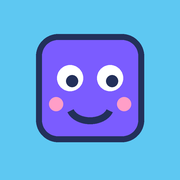
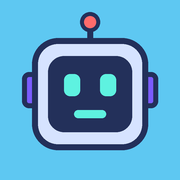
Add Bolt the robot sidekick, Player 1 start screen and talking intro
Claude-Session: https://claude.ai/code/session_01Yanq1Fvdy6wm7jfsNLro3V

diff --git a/index.html b/index.html
@@ -144,6 +144,31 @@ svg circle.lit { fill: #ffc93c; }
 .splash-sub { position: relative; margin: 0; font-weight: 900; font-size: 1.2rem; }
 .big-start { font-size: 2.2rem; padding: 18px; animation: pulse 1.4s ease-in-out infinite; }
 @media (prefers-reduced-motion: reduce) { .big-start { animation: none; } }
+.robot .eyes, .robot .mouth { transform-box: fill-box; transform-origin: center; }
+.robot .eyes { animation: blink 4.5s infinite; }
+@keyframes blink { 0%, 94%, 100% { transform: scaleY(1); } 96% { transform: scaleY(.1); } }
+.robot.talking .mouth { animation: talk .22s ease-in-out infinite alternate; }
+@keyframes talk { to { transform: scaleY(2.6); } }
+.robot .bulb { animation: bulb 1.6s ease-in-out infinite; }
+@keyframes bulb { 50% { fill: #ffc93c; } }
+.robot .wave { transform-origin: 113px 100px; }
+.intro .buddy { width: 130px; }
+.caret { animation: caret 1s steps(1) infinite; color: var(--btn); }
+@keyframes caret { 50% { opacity: 0; } }
+.screen { position: relative; overflow: hidden; background: #1b2347; border: 6px solid #23305a; border-radius: 24px; padding: 26px 16px 22px; color: #e8f4ff; display: grid; justify-items: center; gap: 6px; box-shadow: inset 0 0 40px rgba(94,242,224,.18); }
+.scan { position: absolute; inset: 0; background: repeating-linear-gradient(transparent 0 3px, rgba(255,255,255,.04) 3px 4px); pointer-events: none; }
+.p1 { font-weight: 900; letter-spacing: .3em; font-size: .9rem; color: #5ef2e0; }
+.pname { font-family: var(--display); font-weight: 400; font-size: clamp(3rem, 14vw, 4.6rem); margin: 0; letter-spacing: .06em; line-height: 1; }
+.pname span { display: inline-block; animation: hop .6s ease-out both; }
+.pname span:nth-child(6n+1) { color: #ff6b6b; } .pname span:nth-child(6n+2) { color: #ffc93c; } .pname span:nth-child(6n+3) { color: #33c26b; }
+.pname span:nth-child(6n+4) { color: #5ef2e0; } .pname span:nth-child(6n+5) { color: #a08bff; } .pname span:nth-child(6n) { color: #ff9f1c; }
+@keyframes hop { from { transform: translateY(-14px); } }
+.ptitle { font-family: var(--display); font-size: 1.6rem; letter-spacing: .08em; color: #fff; }
+.load { width: min(260px, 80%); height: 12px; border-radius: 999px; background: rgba(255,255,255,.12); overflow: hidden; margin-top: 8px; }
+.load > div { height: 100%; width: 100%; background: linear-gradient(90deg, #5ef2e0, #7b5cff); border-radius: 999px; animation: fill 1.4s ease-out both; }
+@keyframes fill { from { width: 8%; } }
+.loadtxt { font-weight: 800; font-size: .85rem; letter-spacing: .08em; text-transform: uppercase; color: #9fb4d8; }
+@media (prefers-reduced-motion: reduce) { .robot .eyes, .robot.talking .mouth, .robot .bulb, .caret, .pname span, .load > div { animation: none; } }
 .answers.menu-grid { grid-template-columns: 1fr 1fr; }
 .menu-grid .big-choice { font-size: 1.6rem; line-height: 1.3; padding: 18px 6px; }
 .ans.minus { background: #2ab7ca; box-shadow: 0 6px 0 #1b8a99; }
@@ -354,19 +379,25 @@ function buildRound(mode, table) {
 const card = document.getElementById("card");
 let qs, i, score, mode, table;
 
-const BUDDY = `<svg class="buddy" viewBox="0 0 120 120" aria-label="Quinn the square, your quiz buddy">
-          <g class="wave"><rect x="92" y="38" width="12" height="34" rx="6" fill="#7b5cff" stroke="#23305a" stroke-width="4"/></g>
-          <rect x="18" y="22" width="78" height="78" rx="16" fill="#7b5cff" stroke="#23305a" stroke-width="5"/>
-          <circle cx="42" cy="54" r="9" fill="#fff"/><circle cx="72" cy="54" r="9" fill="#fff"/>
-          <circle cx="44" cy="56" r="4.5" fill="#23305a"/><circle cx="74" cy="56" r="4.5" fill="#23305a"/>
-          <circle cx="32" cy="72" r="5" fill="#ff9ec7" opacity=".8"/><circle cx="84" cy="72" r="5" fill="#ff9ec7" opacity=".8"/>
-          <path d="M44 74 Q57 88 70 74" fill="none" stroke="#23305a" stroke-width="5" stroke-linecap="round"/>
-          <rect x="30" y="104" width="12" height="12" rx="4" fill="#23305a"/><rect x="72" y="104" width="12" height="12" rx="4" fill="#23305a"/>
-        </svg>`;
+const BUDDY = `<svg class="buddy robot" viewBox="0 0 140 160" aria-label="Bolt the robot, your computer sidekick">
+  <line x1="70" y1="10" x2="70" y2="28" stroke="#23305a" stroke-width="5" stroke-linecap="round"/>
+  <circle class="bulb" cx="70" cy="10" r="8" fill="#ff6b6b" stroke="#23305a" stroke-width="3"/>
+  <rect x="10" y="52" width="14" height="30" rx="6" fill="#7b5cff" stroke="#23305a" stroke-width="4"/>
+  <rect x="116" y="52" width="14" height="30" rx="6" fill="#7b5cff" stroke="#23305a" stroke-width="4"/>
+  <rect x="20" y="26" width="100" height="82" rx="20" fill="#d6e3ff" stroke="#23305a" stroke-width="5"/>
+  <rect x="32" y="38" width="76" height="56" rx="12" fill="#23305a"/>
+  <g class="eyes"><rect x="46" y="51" width="14" height="17" rx="5" fill="#5ef2e0"/><rect x="80" y="51" width="14" height="17" rx="5" fill="#5ef2e0"/></g>
+  <rect class="mouth" x="56" y="77" width="28" height="6" rx="3" fill="#5ef2e0"/>
+  <rect x="58" y="106" width="24" height="8" fill="#23305a"/>
+  <g class="arm-l"><rect x="20" y="118" width="14" height="32" rx="7" fill="#d6e3ff" stroke="#23305a" stroke-width="4"/></g>
+  <g class="wave"><rect x="106" y="96" width="14" height="32" rx="7" fill="#d6e3ff" stroke="#23305a" stroke-width="4"/></g>
+  <rect x="36" y="112" width="68" height="44" rx="14" fill="#7b5cff" stroke="#23305a" stroke-width="5"/>
+  <circle class="core" cx="70" cy="132" r="8" fill="#ffc93c" stroke="#23305a" stroke-width="3"/>
+</svg>`;
 
 let welcomed = false;
-function menu() {
-  if (welcomed) { chime(); speak("Welcome back, Jayden! What do you want to practice?"); }
+function menu(first) {
+  if (welcomed && !first) chime();
   document.getElementById("bar").style.width = "0%";
   const h = new Date().getHours();
   const hello = h < 12 ? "Good morning" : h < 17 ? "Good afternoon" : "Good evening";
@@ -378,12 +409,12 @@ function menu() {
       <div class="buddy-row">
         ${BUDDY}
         <div class="bubble pop">
-          <div class="bubble-hi">${hello}, Jayden! 👋</div>
-          I'm Quinn the Square. Let's learn and earn stars together!
+          <div class="bubble-hi">${hello}, Jayden!</div>
+          Pick a mission and let's play.
         </div>
       </div>
     </div>
-    <h2 class="question">What do you want to practice?</h2>
+    <h2 class="question">Choose your mission</h2>
     <div class="answers menu-grid">
       <button class="ans big-choice" id="pick-shapes"><span class="mi">🔷</span>Shapes<small>Name shapes and count sides</small></button>
       <button class="ans big-choice minus" id="pick-minus"><span class="mi">➖</span>Subtraction<small>Take away numbers</small></button>
@@ -391,6 +422,7 @@ function menu() {
       <button class="ans big-choice divide" id="pick-divide"><span class="mi">➗</span>Division<small>Share into equal groups</small></button>
     </div>
     <p class="howto">⭐ 10 questions each game &nbsp;·&nbsp; 💪 2 tries per question &nbsp;·&nbsp; 💡 Draw to help</p>`;
+  if (welcomed) talk(first ? "Awesome! Pick a mission." : "Welcome back, Jayden! Pick a mission.", card.querySelector(".robot"));
   document.getElementById("pick-shapes").onclick = () => start("shapes");
   document.getElementById("pick-minus").onclick = () => start("minus");
   document.getElementById("pick-times").onclick = () => tableMenu("times");
@@ -398,21 +430,69 @@ function menu() {
 }
 
 function splash() {
+  const name = "JAYDEN".split("").map((c, k) => `<span style="animation-delay:${k * .08}s">${c}</span>`).join("");
   card.innerHTML = `
-    <div class="hero splash">
-      <div class="floaty" aria-hidden="true">
-        <span class="f1">▲</span><span class="f2">●</span><span class="f3">■</span><span class="f4">★</span><span class="f5">⬢</span>
-      </div>
-      <div class="splash-buddy">${BUDDY}</div>
-      <h2 class="splash-title">Quiz Quest</h2>
-      <p class="splash-sub">Made just for Jayden!</p>
+    <div class="screen">
+      <div class="scan" aria-hidden="true"></div>
+      <div class="p1">PLAYER 1</div>
+      <h2 class="pname" aria-label="Jayden">${name}</h2>
+      <div class="ptitle">Quiz Quest</div>
+      <div class="load"><div></div></div>
+      <div class="loadtxt">4 missions loaded · Grade 3</div>
     </div>
-    <button class="next big-start pop" id="go">▶ Tap to start!</button>`;
-  document.getElementById("go").onclick = () => {
-    jingle();
-    setTimeout(() => speak("Hi Jayden! Welcome to Quiz Quest! I'm Quinn the Square. Let's learn and have fun!"), 700);
-    menu(); welcomed = true;
+    <button class="next big-start" id="go">▶ Press Start</button>`;
+  document.getElementById("go").onclick = () => { jingle(); intro(); };
+}
+
+// Bolt the robot introduces himself, one line at a time
+function intro() {
+  const lines = [
+    "Hey Jayden! I'm Bolt, your computer sidekick.",
+    "I loaded 4 missions for you: Shapes, Subtraction, Multiplication, and Division.",
+    "Every right answer earns you a star. If a problem is tricky, you get a second try, and you can use the drawing pad to work it out.",
+    "Ready to play, Player 1?",
+  ];
+  let k = 0;
+  card.innerHTML = `
+    <div class="hero intro">
+      <div class="buddy-row">
+        ${BUDDY}
+        <div class="bubble"><div class="bubble-hi">BOLT</div><span id="say"></span><span class="caret">▍</span></div>
+      </div>
+    </div>
+    <button class="next" id="inext">Next ➜</button>
+    <button class="back" id="skip">Skip intro</button>`;
+  const robot = card.querySelector(".robot"), out = document.getElementById("say"), nb = document.getElementById("inext");
+  let typer;
+  const sayLine = () => {
+    const t = lines[k];
+    clearInterval(typer); out.textContent = "";
+    robot.classList.add("talking");
+    let n = 0;
+    typer = setInterval(() => { out.textContent = t.slice(0, ++n); if (n >= t.length) clearInterval(typer); }, 28);
+    talk(t, robot);
+    const last = k === lines.length - 1;
+    nb.textContent = last ? "Let's go! 🎮" : "Next ➜";
   };
+  const done = () => { clearInterval(typer); welcomed = true; menu(true); };
+  nb.onclick = () => { k++; k < lines.length ? sayLine() : done(); };
+  document.getElementById("skip").onclick = done;
+  setTimeout(sayLine, 500);
+}
+
+// speak and move Bolt's mouth until he finishes
+function talk(text, robot) {
+  const stop = () => robot && robot.classList.remove("talking");
+  if (robot) robot.classList.add("talking");
+  if (!soundOn || !window.speechSynthesis) { setTimeout(stop, text.length * 45); return; }
+  try {
+    speechSynthesis.cancel();
+    const u = new SpeechSynthesisUtterance(text);
+    u.rate = 1; u.pitch = 1.1; u.lang = "en-US";
+    u.onend = stop; u.onerror = stop;
+    speechSynthesis.speak(u);
+    setTimeout(stop, text.length * 90);
+  } catch (e) { stop(); }
 }
 
 function tableMenu(m) {
@@ -698,7 +778,7 @@ function answer(btn) {
     btn.classList.add("wrong"); btn.disabled = true;
     document.getElementById("fb").innerHTML = `<div class="feedback try pop"><span class="big">Not quite! Try again 💪</span>You get one more chance. Tap 💡 Help me if you want me to walk you through it.</div>`;
     card.classList.add("shake"); setTimeout(() => card.classList.remove("shake"), 400);
-    beep(false);
+    beep(false); speak("Not quite. Try again!");
     return;
   }
   card.querySelectorAll(".ans").forEach(b => {
@@ -712,10 +792,11 @@ function answer(btn) {
     score++; document.getElementById("score").textContent = score;
     const cheer = q.tried ? "You got it on the second try! 🎉" : "🎉 " + pick(CHEERS);
     fb.innerHTML = `<div class="feedback good pop"><span class="big">${cheer}</span>${q.why}</div>`;
-    beep(true); confetti(40);
+    beep(true); confetti(40); speak(cheer.replace(/🎉/g, ""));
   } else {
     btn.classList.add("wrong");
     fb.innerHTML = `<div class="feedback bad pop"><span class="big">Good try! The answer is ${q.answer}</span>${q.why}</div>`;
+    speak("Good try! The answer is " + q.answer);
     card.classList.add("shake"); setTimeout(() => card.classList.remove("shake"), 400);
     beep(false);
   }
